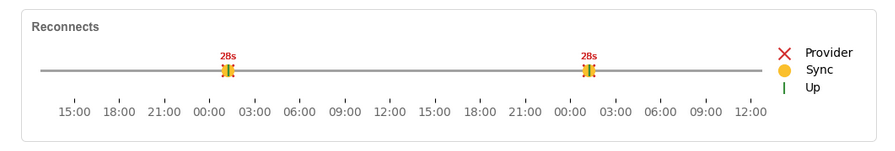
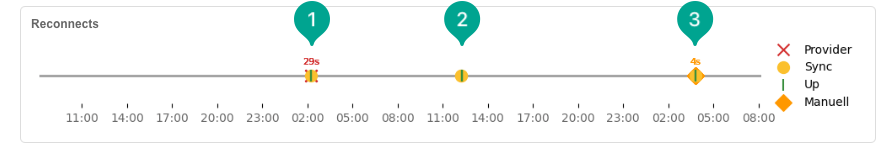
Beispiele im Recconect Zeitstrahl ergänzt

diff --git a/docu/statusreport_doku.md b/docu/statusreport_doku.md
@@ -121,6 +121,21 @@ Der Zeitstrahl visualisiert Verbindungsereignisse der letzten Tage (der Zeitraum
 
 Oberhalb der Symbole wird die Dauer des jeweiligen Verbindungsausfalls in Sekunden angezeigt. Dauert der Reconnect ungewöhnlich lange, wird dies in der Leitungsanalyse genauer untersucht.
 
+Der Beispielscreenshot zeigt drei besondere Ereignisse:
+
+(1) Am Vortag tägliche **Provider-Zwangstrennung** um 02:00 Uhr **Dauer 29 Sekunden**<br>
+Der Provider, konkret 1&1, trennt auch bei VDSL Anschlüssen 24 Stunden nach dem letzten Reconnect automatisch die Verbindung, so dass ein kompletter neuer Verbindungsaufbau erforderlich ist.<br>
+Dieser dauert regelmäßig ca. 30 Sekunden, 29 Sekunden im vorliegenden Fall.
+
+(2) Einspielen einer neuen **Firmware** um 13:00 Uhr<br>
+Zum Abschluß der Installation einer neuen Firmware, konkret im Beispiel Update von 231.01 auf 231.04, wird der Router neu gestartet. Da der Router direkt nach dem Neustart und vor erfolgtem Connect noch keine aktuelle Zeit über das Internet erhalten hat, verwednet er im Log als Eventdatum das Datum der Veröffentlichung der Firmware.
+Exkurs: Beim Import des Logs korrigiert das Skript die falschen Zeitstempel der Ereignisse durch Annäherung über Rückwärtsrechnung ab dem ersten wieder korrekt datierten Event. Daher wird keine Dauer im Verbindungszeitstrahl angegeben.<br>
+Man kann von **ca. 3 Minuten** ausgehen, was je nach Provider, DSLM, Routermodell und Firmware variieren kann.
+
+(3) **Automatische Trennung** durch den Router um 03:30 Uhr **Dauer 4 Sekunden**<br>
+Ist unter Erweiterte Einstellungen > DSL-WAN > DSL-Wan Schnittstelle 'Bearbeiten' im Abschnitt Verbindungsmodus 'Immer online' ausgewählt und die Option 'Automatisch trennen und wiederverbinden um … Uhrzeit' aktiviert, dauert die Trennung und Wiederverbindung in der Regel nur wenige Sekunden, im vorliegenden Fall 4 Sekunden.
+
+
 ---
 
 ## Leitungsanalyse - regelbasiert
